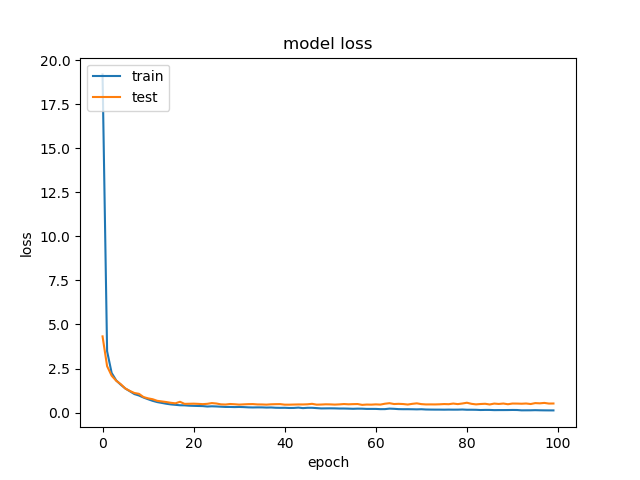
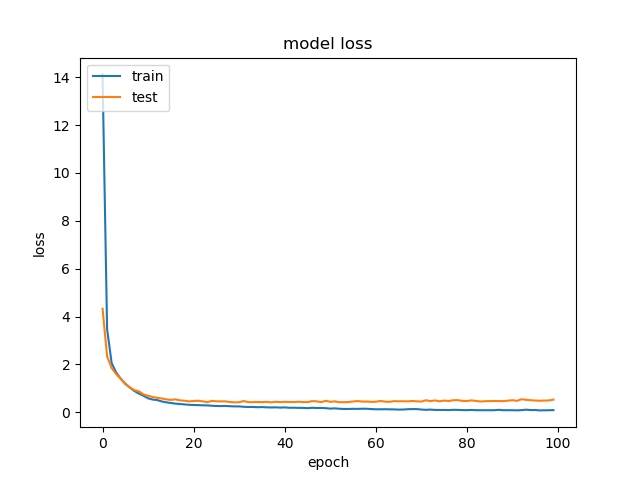
histogram plot

diff --git a/Project3/data_p3.py b/Project3/data_p3.py
@@ -15,6 +15,8 @@ from keras.models import Model, Sequential
 from keras.layers import Dense
 from keras.wrappers.scikit_learn import KerasClassifier, KerasRegressor
 
+from sklearn import svm
+
 from classes_p3 import *
 
 dfr = pd.read_csv('./Data/winequality-red.csv', sep = ';')
@@ -37,6 +39,11 @@ def classification_report_with_accuracy_score(y_true, y_pred):
 
 cv = ShuffleSplit(n_splits=10, test_size=0.2, random_state=0)
 
+from sklearn.metrics import make_scorer
+def MAD(y_true, y_pred):
+    return (sum(abs(y_true - y_pred)) / len(y_true))
+
+scoring = {'MSE': 'neg_mean_squared_error', 'MAD': make_scorer(MAD, greater_is_better = False), 'R2': 'r2'}
 
 #######
 #BINARY CLASSIFICATION
@@ -118,7 +125,7 @@ plt.legend(['train', 'test'], loc='upper left')
 plt.savefig('./Images/loss_hist.png')
 plt.show()
 """
-
+"""
 #######
 #CATEGORICAL CLASSIFICATION
 #######
@@ -134,8 +141,7 @@ X_ = sc.transform(X)
 
 NNc = NNclassifier()
 
-from sklearn import svm
-svclassifier = svm.SVC(kernel='rbf', gamma = 'auto')
+svclassifier = svm.SVC(kernel='rbf', gamma = 'auto', C = 1.0) #default parameters
 #svclassifier.fit(Xtrain, ytrain)
 #y_pred = svclassifier.predict(Xtest)
 
@@ -143,7 +149,7 @@ svclassifier = svm.SVC(kernel='rbf', gamma = 'auto')
 #print(classification_report(ytest,y_pred))
 
 scores_SVMc = cross_val_score(svclassifier, X_, y, cv = cv)
-print(scores_SVMc)
+#print(scores_SVMc)
 print('CV accuracy score SVMc: %0.3f (+/- %0.3f)' % (scores_SVMc.mean(), scores_SVMc.std()*2))
 
 
@@ -166,7 +172,7 @@ fig, ax = plt.subplots(figsize = (10, 10))
 sns.heatmap(test_acc, annot=True, ax=ax, cmap="viridis", fmt = '.3g')
 ax.set_yticklabels(C_vals)
 ax.set_xticklabels(gamma_vals)
-ax.set_title("MSE test data")
+ax.set_title("Accuracy test data")
 ax.set_xlabel("$\gamma$")
 ax.set_ylabel("C")
 fig.savefig('./Images/heatmap_svmclass1.png')
@@ -174,29 +180,41 @@ plt.show()
 
 ngammas = 100
 gammas = np.logspace(-4, 4, ngammas)
-test_acc = np.zeros(ngammas)
+test_acc_g = np.zeros(ngammas)
 i = 0
 for gam in gammas:
     model = svm.SVC(kernel='rbf', gamma = gam)
     cv_ = cross_val_score(model, X_, y, cv = cv, n_jobs = -1, verbose = 0)
-    test_acc[i] = np.mean(cv_)
+    test_acc_g[i] = np.mean(cv_)
     i += 1
 
-plt.figure()
-plt.plot(np.log10(gammas), test_acc)
-plt.xlabel('log10(gammas)')
-plt.ylabel('accuracy')
-plt.title('SVM classification for different gammas')
-plt.show()
+nc = 100
+cs = np.logspace(-4, 4, ngammas)
+test_acc_c = np.zeros(ngammas)
+i = 0
+for c in cs:
+    model = svm.SVC(kernel='rbf', C = c, gamma = 'auto')
+    cv_ = cross_val_score(model, X_, y, cv = cv, n_jobs = -1, verbose = 0)
+    test_acc_c[i] = np.mean(cv_)
+    i += 1
 
+fig, (ax1, ax2) = plt.subplots(1, 2, sharey = True)
+ax1.plot(np.log10(cs), test_acc_c, 'tab:orange')
+ax1.set_title('C parameter')
+ax1.set_ylabel('Accuracy score')
+ax1.set_xlabel('log10(C)')
+ax2.plot(np.log10(gammas), test_acc_g, 'tab:green')
+ax2.set_title('$\gamma$ parameter')
+ax2.set_xlabel('log10($\gamma$)')
+fig.savefig('./Images/C_gamma_parameters')
+plt.show()
 
 svclassifier = svm.SVC(kernel='rbf', C = 0.1, gamma = 0.1)
 scores_SVMc = cross_val_score(svclassifier, X_, y, cv = cv)
-print(scores_SVMc)
+#print(scores_SVMc)
 print('CV accuracy score tuned SVMc: %0.3f (+/- %0.3f)' % (scores_SVMc.mean(), scores_SVMc.std()*2))
 
-
-"""
+# NEURAL NETWORK MOD
 # Fit the model
 history = NNc.build_network().fit(Xtrain, ytrain, validation_split=0.3, epochs=100, batch_size=32)
 # list all data in history
@@ -226,30 +244,137 @@ scores_NNc = cross_val_score(NNc, X_, y_c, cv = cv)
 print(scores_NNc)
 
 print('CV accuracy score NNc: %0.3f (+/- %0.3f)' % (scores_NNc.mean(), scores_NNc.std()*2))
-
+"""
 
 #######
 # REGRESSION
 #######
 
-Xtrain, Xtest, ytrain, ytest = train_test_split(X, y, test_size = 0.2)
+Xtrain, Xtest, ytrain, ytest = train_test_split(X, y, test_size = 0.2) #, random_state = 0)
 Xtrain = sc.fit_transform(Xtrain)
 Xtest = sc.transform(Xtest)
 X_ = sc.transform(X)
 
-NNr_ = NNregressor(len_X = Xtrain)
+#LINEAR REGRESSION
+from sklearn.linear_model import LinearRegression, Ridge
+from sklearn.metrics import mean_squared_error
+
+score = []
+reg = Ridge(alpha = 0.7)
+
+for i in range(1000):
+    Xtrain, Xtest, ytrain, ytest = train_test_split(X, y, test_size = 0.2) #, random_state = 0)
+    reg.fit(Xtrain, ytrain)
+    ypred = reg.predict(Xtest)
+
+    score.append(mean_squared_error(ytest, ypred))
+
+sns.distplot(score, label = 'ridge')
+
+score = []
+reg1 = svm.SVR(kernel = 'rbf', gamma = 'auto')
+
+for i in range(1000):
+    Xtrain, Xtest, ytrain, ytest = train_test_split(X, y, test_size = 0.2) #, random_state = 0)
+    reg1.fit(Xtrain, ytrain)
+    ypred = reg1.predict(Xtest)
+
+    score.append(mean_squared_error(ytest, ypred))
+
+sns.distplot(score, label = 'svm')
+plt.legend()
+plt.show()
+
+
+"""
+cv_reg = cross_validate(reg, X_, y, cv = cv, n_jobs = -1, scoring = scoring, return_train_score = False)
+
+print('MSE OLS: %0.5f (+/- %0.5f)' % (-cv_reg['test_MSE'].mean(), cv_reg['test_MSE'].std()*2))
+print('R2 OLS: %0.5f (+/- %0.5f)' % (cv_reg['test_R2'].mean(), cv_reg['test_R2'].std()*2))
+print('MAD OLS: %0.5f (+/- %0.5f)' % (-cv_reg['test_MAD'].mean(), cv_reg['test_MAD'].std()*2))
+print('---')
+
+
+#SVM REGRESSOR
+SVMr = svm.SVR(kernel = 'rbf', gamma = 'auto')
+
+cv_SVMr = cross_validate(SVMr, X_, y, cv = cv, n_jobs = -1, scoring = scoring, return_train_score = False)
+#print('cv_scores_nn_test:', cv_SVMr['test_MSE'])
+print('MSE SVM: %0.5f (+/- %0.5f)' % (-cv_SVMr['test_MSE'].mean(), cv_SVMr['test_MSE'].std()*2))
+print('R2 SVM: %0.5f (+/- %0.5f)' % (cv_SVMr['test_R2'].mean(), cv_SVMr['test_R2'].std()*2))
+print('MAD SVM: %0.5f (+/- %0.5f)' % (-cv_SVMr['test_MAD'].mean(), cv_SVMr['test_MAD'].std()*2))
+print('---')
+
+
+C_vals = [1e-4, 1e-3, 1e-2, 1e-1, 1, 1e2, 1e3, 1e4] #[0.01, 0.1, 1, 10, 1e2, 1e4, 1e6]
+gamma_vals = [1e-4, 1e-3, 1e-2, 1e-1, 1, 1e2, 1e3, 1e4] #[10, 1, 0.1, 0.01, 0.0001, 1e-5, 1e-7]
+scores = np.zeros((len(C_vals), len(gamma_vals)))
+test_mse = np.zeros((len(C_vals), len(gamma_vals)))
+train_mse = np.zeros((len(C_vals), len(gamma_vals)))
+for i, gamma in enumerate(gamma_vals):
+    for j, C in enumerate(C_vals):
+        model = svm.SVR(kernel = 'rbf', C = C, gamma = gamma)
+        cv_ = cross_validate(model, X_, y, cv = cv, scoring = 'neg_mean_squared_error', n_jobs = -1, verbose = 0, return_train_score = True)
+        print(cv_.keys())
+        scores = np.mean(-cv_['test_score'])
+        test_mse[i][j] = np.mean(-cv_['test_score'])
+        train_mse[i][j] = np.mean(-cv_['train_score'])
+        print('C = ', C)
+        print('gamma = ', gamma)
+        print('MSE:', scores)
+
+# plot heatmap of MSE from grid search over eta and lambda
+fig, ax = plt.subplots(figsize = (10, 10))
+sns.heatmap(train_mse, annot=True, ax=ax, cmap="viridis", fmt = '.3g')
+ax.set_yticklabels(gamma_vals)
+ax.set_xticklabels(C_vals)
+ax.set_title("MSE train data")
+ax.set_ylabel("$\gamma$")
+ax.set_xlabel("C")
+fig.savefig('./Images/heatmap_svmreg_train.png')
+plt.show()
+
+fig, ax = plt.subplots(figsize = (10, 10))
+sns.heatmap(test_mse, annot=True, ax=ax, cmap="viridis", fmt = '.3g')
+ax.set_xticklabels(C_vals)
+ax.set_yticklabels(gamma_vals)
+ax.set_title("MSE test data")
+ax.set_ylabel("$\gamma$")
+ax.set_xlabel("C")
+fig.savefig('./Images/heatmap_svmreg.png')
+plt.show()
+
+
+SVMr_tuned = svm.SVR(kernel = 'rbf', gamma = 0.1, C = 1.0)
+cv_SVMr_tuned = cross_validate(SVMr_tuned, X_, y, cv = cv, n_jobs = -1, scoring = scoring, return_train_score = False)
+#print('cv_scores_nn_test:', cv_SVMr_tuned['test_MSE'])
+print('MSE SVM_tuned: %0.5f (+/- %0.5f)' % (-cv_SVMr_tuned['test_MSE'].mean(), cv_SVMr_tuned['test_MSE'].std()*2))
+print('R2 SVM_tuned: %0.5f (+/- %0.5f)' % (cv_SVMr_tuned['test_R2'].mean(), cv_SVMr_tuned['test_R2'].std()*2))
+print('MAD SVM_tuned: %0.5f (+/- %0.5f)' % (-cv_SVMr_tuned['test_MAD'].mean(), cv_SVMr_tuned['test_MAD'].std()*2))
+print('---')
+
+# NEURAL NETWORK REGRESSOR
+layer_size = (100,20)
+epochs = 50
+batch_size = 16
+lambda_ = 0
+activation_function = 'relu'
+
+NNr_ = NNregressor(layer_sizes = layer_size, activation_function = activation_function, alpha = lambda_, len_X = Xtrain)
 
 # Fit the model
 #history = NNr.build_network().fit(Xtrain, ytrain, validation_split=0.3, epochs=100, batch_size=32)
 
-NNr = KerasRegressor(build_fn=NNr_.build_network, verbose = 1)
-scores_NNr = cross_validate(NNr, X, y, cv = cv, scoring = ('neg_mean_squared_error', 'r2'), return_train_score = False, verbose = 1, n_jobs = -1)
-print('cv_scores_keras:', scores_NNr['test_neg_mean_squared_error'])
-print('MSE keras test: %0.5f (+/- %0.5f)' % (-np.mean(scores_NNr['test_neg_mean_squared_error']), np.std(scores_NNr['test_neg_mean_squared_error'])*2))
-print('R2 keras test: %0.5f (+/- %0.5f)' % (np.mean(scores_NNr['test_r2']), np.std(scores_NNr['test_r2'])*2))
+NNr = KerasRegressor(build_fn=NNr_.build_network, epochs = epochs, batch_size = batch_size, verbose = 0)
+scores_NNr = cross_validate(NNr, X, y, cv = cv, scoring = scoring, return_train_score = False, verbose = 0, n_jobs = -1)
+print('cv_scores_keras:', scores_NNr['test_MSE'])
+print('MSE keras test: %0.5f (+/- %0.5f)' % (-np.mean(scores_NNr['test_MSE']), np.std(scores_NNr['test_MSE'])*2))
+print('R2 keras test: %0.5f (+/- %0.5f)' % (np.mean(scores_NNr['test_R2']), np.std(scores_NNr['test_R2'])*2))
+print('MAD keras test: %0.5f (+/- %0.5f)' % (-np.mean(scores_NNr['test_MAD']), np.std(scores_NNr['test_MAD'])*2))
+print('---')
 
 # Fit the model
-history = NNr_.build_network().fit(Xtrain, ytrain, validation_split=0.3, epochs=100, batch_size=32)
+history = NNr_.build_network().fit(Xtrain, ytrain, validation_split=0.3, epochs=100, batch_size=batch_size)
 # list all data in history
 print(history.history.keys())
 # summarize history for accuracy
@@ -273,12 +398,9 @@ plt.show()
 
 # Best regularization parameter
 lmbd_vals = [0, 0.00001, 0.0001, 0.01, 0.1]
-
 nlambdas = 10
 lambdas = np.logspace(-7, 2, nlambdas)
-
 test_MSE = np.zeros(nlambdas)
-
 i = 0
 for lmbd in lambdas:
     DNN = NNregressor(alpha=lmbd, len_X = Xtrain)
@@ -293,4 +415,31 @@ plt.xlabel('log10(lambda)')
 plt.ylabel('MSE')
 plt.title('NN regression for different lambdas')
 plt.show()
+
+#grid search
+parameters = {'layer_sizes':([128],[128,64],[256,128,64,32]), 'activation_function':['sigmoid', 'relu'], 'alpha':[0, 0.01, 0.03, 0.1], 'batch_size': [16,32,64]}
+nnRegressor = KerasRegressor(build_fn=NNr_.build_network, verbose=0)
+gs_nn = GridSearchCV(nnRegressor, parameters, scoring = 'mse', cv=cv, verbose = 0, n_jobs=-1)
+gs_nn.fit(Xtrain, ytrain)
+best_parameters = gs_nn.best_params_
+print(best_parameters)
+
+#NOT FINISHED
+
+#optimized model
+layer_size = (100,20)
+epochs = 50
+batch_size = 16
+lambda_ = 0
+activation_function = 'relu'
+
+NNr_ = NNregressor(layer_sizes = layer_size, activation_function = activation_function, alpha = lambda_, len_X = Xtrain)
+
+NNr = KerasRegressor(build_fn=NNr_.build_network, epochs = epochs, batch_size = batch_size, verbose = 0)
+scores_NNr = cross_validate(NNr, X, y, cv = cv, scoring = scoring, return_train_score = False, verbose = 0, n_jobs = -1)
+print('cv_scores_keras:', scores_NNr['test_MSE'])
+print('MSE keras optimized: %0.5f (+/- %0.5f)' % (-np.mean(scores_NNr['test_MSE']), np.std(scores_NNr['test_MSE'])*2))
+print('R2 keras optimized: %0.5f (+/- %0.5f)' % (np.mean(scores_NNr['test_R2']), np.std(scores_NNr['test_R2'])*2))
+print('MAD keras optimized: %0.5f (+/- %0.5f)' % (-np.mean(scores_NNr['test_MAD']), np.std(scores_NNr['test_MAD'])*2))
+print('---')
 """
